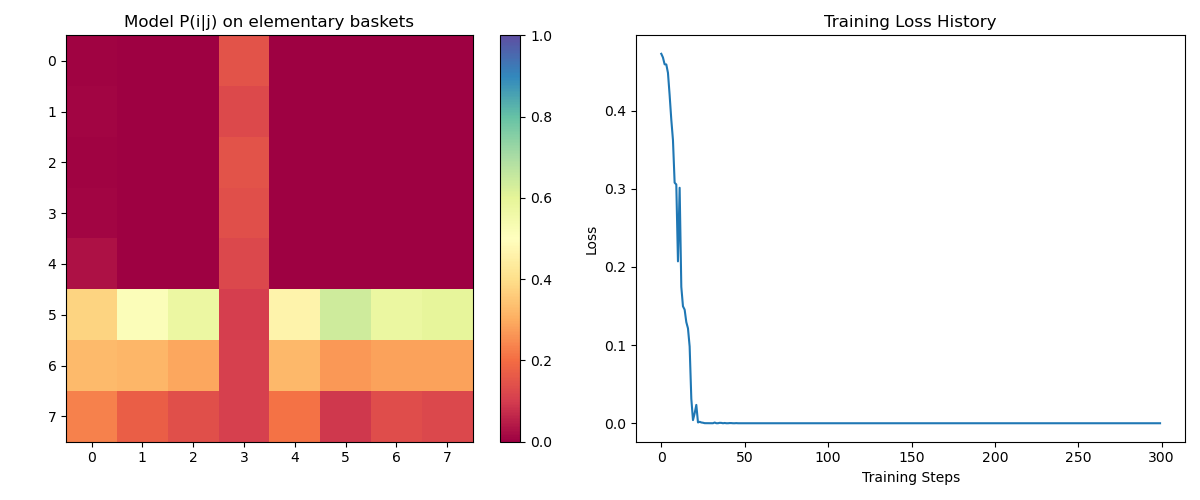
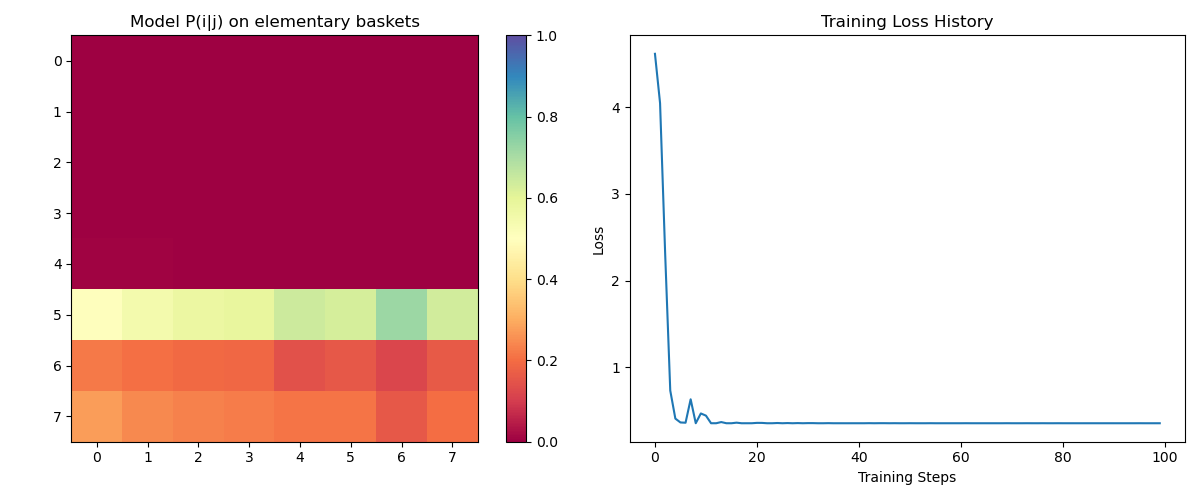
New upload changed NCE loss (now iterative), couldn't complete last code I worked on in Artefact because it was on VPN server and I can't access it, so I just changed what I could change untill I can connect and patch it

diff --git a/python/model.py b/python/model.py
@@ -122,6 +122,24 @@ class BaseModel:
                                tf.stack([tf.range(tf.shape(target_items)[0]), target_items], axis=1))
         
         return tf.reduce_sum(tf.math.log(target_items_scores + 1))
+    
+    def get_neg_items_iterative(self, context, target, n_items, K_noise):
+        context_set = set(context.numpy().tolist())
+        context_set.add(target.numpy().item())
+        all_items = set(range(n_items))
+        neg_pool = list(all_items - context_set)
+        if len(neg_pool) < K_noise:
+            pass
+        else:
+            neg_items = np.random.choice(neg_pool, size=K_noise, replace=False)
+        return np.array(neg_items, dtype=np.int32)
+
+    def get_neg_items_py(self, context, target):
+        return tf.py_function(
+            func=self.get_neg_items_iterative(context, target, self.n_items, self.K_noise)
+            inp=[context, target, self.n_items, self.K_noise],
+            Tout=tf.int32
+        )
 
     def nce_loss(self, context_items: tf.Tensor, target_items_idx: tf.Tensor) -> tf.Tensor:
         """Calculates the loss using Noise Contrastive Estimation (NCE)."""
@@ -130,21 +148,21 @@ class BaseModel:
         context_vec = self.context_embed(context_items)  
         pos_score = self.score(context_vec, target_items_idx)  
 
-       
-        all_items = tf.range(self.n_items, dtype=tf.int32) 
-
+        """
+         all_items = tf.range(self.n_items, dtype=tf.int32) 
         def get_neg_items(context, target):
             exclude = tf.concat([context, [target]], axis=0)
             mask = ~tf.reduce_any(tf.equal(all_items[:, None], exclude[None, :]), axis=1)
             neg_pool = tf.boolean_mask(all_items, mask)
             neg_items = tf.random.shuffle(neg_pool)[:self.K_noise]
             return neg_items
-
+        """
         neg_items = tf.map_fn(
-            lambda x: get_neg_items(x[0], x[1]),
+            lambda x: self.get_neg_items_py(x[0], x[1]),
             (context_items, target_items_idx),
             fn_output_signature=tf.TensorSpec(shape=(self.K_noise,), dtype=tf.int32)
-        )  
+        )
+
 
         KQ = self.K_noise * tf.gather(self.Q_distribution, target_items_idx)  
         P_1 = tf.exp(pos_score) / (tf.exp(pos_score) + KQ)
